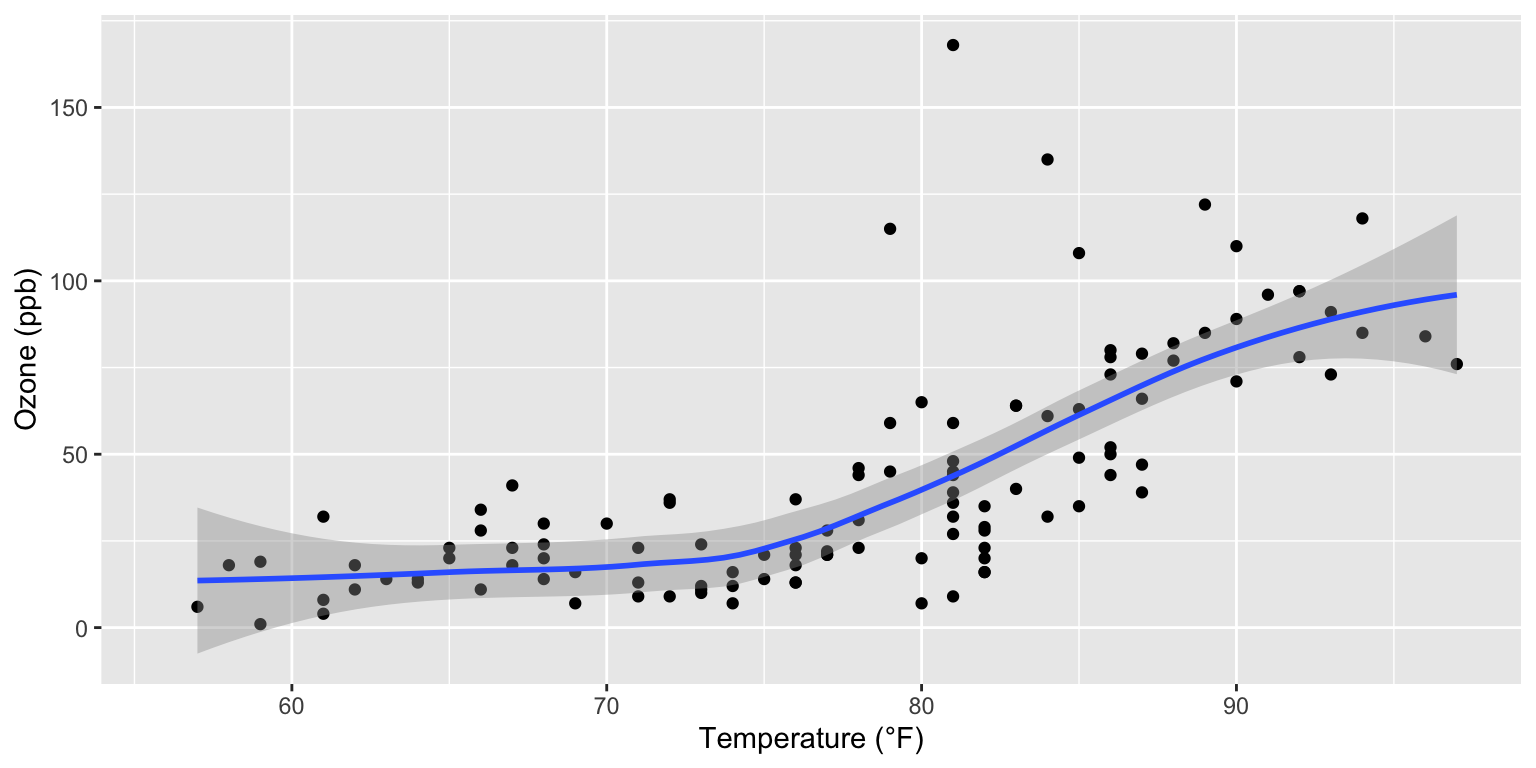
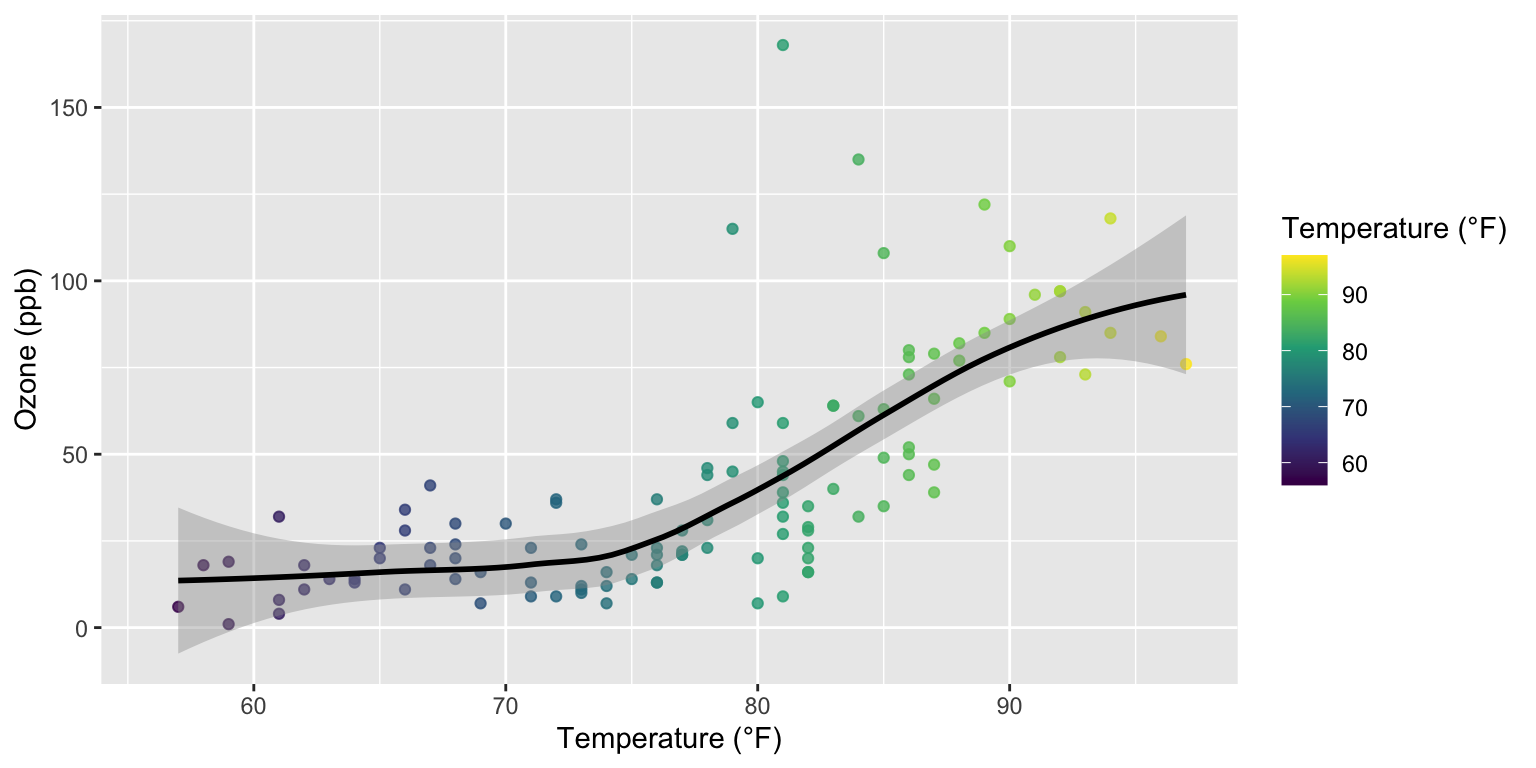
changed color according to temperature

diff --git a/test2.html b/test2.html
@@ -112,17 +112,18 @@ pre > code.sourceCode > span > a:first-child::before { text-decoration: underlin
 
 <section id="air-quality" class="level2">
 <h2 class="anchored" data-anchor-id="air-quality">Air Quality</h2>
-<p>Figure <a href="#fig-airquality" class="quarto-xref">Figure&nbsp;1</a> shows the relationship between daily maximum temperature and ozone concentration in New York City (May–September 1973). Higher temperatures are associated with higher ozone values, though there is considerable variability across days. A LOESS curve is used to summarize the overall pattern.</p>
+<p>Figure <a href="#fig-airquality" class="quarto-xref">Figure&nbsp;1</a> shows the relationship between daily maximum temperature and ozone concentration in New York City (May–September 1973). Higher temperatures are associated with higher ozone values, though there is considerable variability across days. A LOESS curve is used to summarize the overall pattern. LOESS fits many local regressions to show a smooth trend without assuming the relationship is linear.</p>
 <div class="cell">
 <details class="code-fold">
 <summary>Code</summary>
-<div class="sourceCode cell-code" id="cb1"><pre class="sourceCode r code-with-copy"><code class="sourceCode r"><span id="cb1-1"><a href="#cb1-1" aria-hidden="true" tabindex="-1"></a><span class="fu">ggplot</span>(airquality, <span class="fu">aes</span>(Temp, Ozone)) <span class="sc">+</span> </span>
-<span id="cb1-2"><a href="#cb1-2" aria-hidden="true" tabindex="-1"></a>  <span class="fu">geom_point</span>() <span class="sc">+</span> </span>
-<span id="cb1-3"><a href="#cb1-3" aria-hidden="true" tabindex="-1"></a>  <span class="fu">geom_smooth</span>(<span class="at">method =</span> <span class="st">"loess"</span>) <span class="sc">+</span> </span>
-<span id="cb1-4"><a href="#cb1-4" aria-hidden="true" tabindex="-1"></a>    <span class="fu">labs</span>(</span>
-<span id="cb1-5"><a href="#cb1-5" aria-hidden="true" tabindex="-1"></a>    <span class="at">x =</span> <span class="st">"Temperature (°F)"</span>,</span>
-<span id="cb1-6"><a href="#cb1-6" aria-hidden="true" tabindex="-1"></a>    <span class="at">y =</span> <span class="st">"Ozone (ppb)"</span></span>
-<span id="cb1-7"><a href="#cb1-7" aria-hidden="true" tabindex="-1"></a>  ) </span></code><button title="Copy to Clipboard" class="code-copy-button"><i class="bi"></i></button></pre></div>
+<div class="sourceCode cell-code" id="cb1"><pre class="sourceCode r code-with-copy"><code class="sourceCode r"><span id="cb1-1"><a href="#cb1-1" aria-hidden="true" tabindex="-1"></a><span class="fu">ggplot</span>(airquality, <span class="fu">aes</span>(<span class="at">x =</span> Temp, <span class="at">y =</span> Ozone, <span class="at">color =</span> Temp)) <span class="sc">+</span> </span>
+<span id="cb1-2"><a href="#cb1-2" aria-hidden="true" tabindex="-1"></a>  <span class="fu">geom_point</span>(<span class="at">alpha =</span> <span class="fl">0.8</span>) <span class="sc">+</span></span>
+<span id="cb1-3"><a href="#cb1-3" aria-hidden="true" tabindex="-1"></a>  <span class="fu">scale_color_viridis_c</span>(<span class="at">name =</span> <span class="st">"Temperature (°F)"</span>) <span class="sc">+</span></span>
+<span id="cb1-4"><a href="#cb1-4" aria-hidden="true" tabindex="-1"></a>  <span class="fu">geom_smooth</span>(<span class="at">method =</span> <span class="st">"loess"</span>, <span class="at">se =</span> <span class="cn">TRUE</span>, <span class="at">color =</span> <span class="st">"black"</span>) <span class="sc">+</span></span>
+<span id="cb1-5"><a href="#cb1-5" aria-hidden="true" tabindex="-1"></a>    <span class="fu">labs</span>(</span>
+<span id="cb1-6"><a href="#cb1-6" aria-hidden="true" tabindex="-1"></a>    <span class="at">x =</span> <span class="st">"Temperature (°F)"</span>,</span>
+<span id="cb1-7"><a href="#cb1-7" aria-hidden="true" tabindex="-1"></a>    <span class="at">y =</span> <span class="st">"Ozone (ppb)"</span></span>
+<span id="cb1-8"><a href="#cb1-8" aria-hidden="true" tabindex="-1"></a>  ) </span></code><button title="Copy to Clipboard" class="code-copy-button"><i class="bi"></i></button></pre></div>
 </details>
 <div class="cell-output-display">
 <div id="fig-airquality" class="quarto-figure quarto-figure-center quarto-float anchored">
